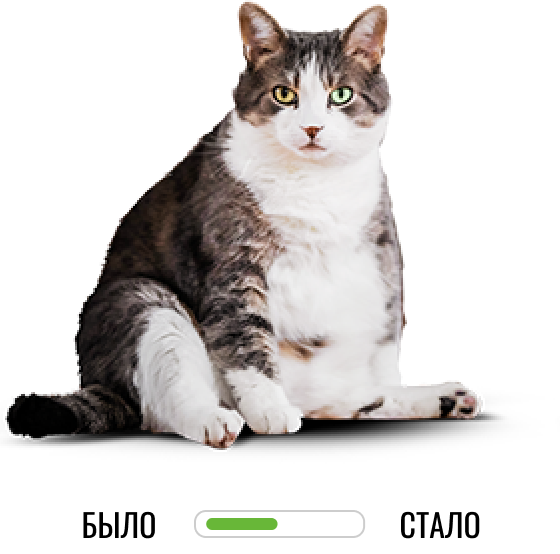
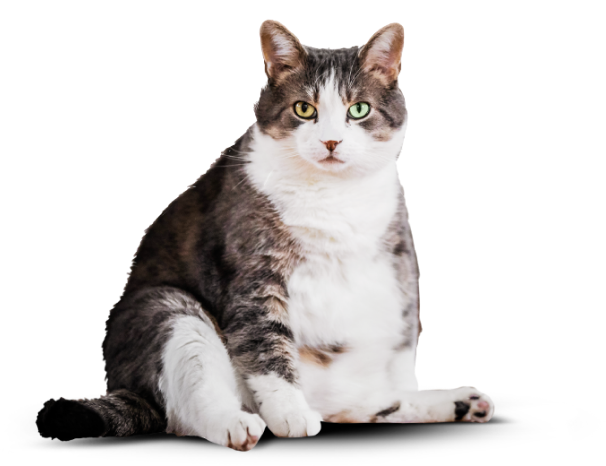
HW 7.20 v2
Оптимизация графики страниц

diff --git a/source/index.html b/source/index.html
@@ -11,10 +11,6 @@
 
 <body class="page__body">
 
-
-
-
-  <div class="back-cat-desk"></div>
   <div class="transparent-cat-desk"></div>
   <header class="main-header container">
 
@@ -185,8 +181,8 @@
               </svg>
 
               <svg class="methods__item-icon-watch-tab" aria-hidden="true" focusable="false" width="80" height="80"
-              viewBox="0 0 80 80" fill="none" xmlns="http://www.w3.org/2000/svg">
-              <use href="img/sprite.svg#watch-icon-tab"></use>
+                viewBox="0 0 80 80" fill="none" xmlns="http://www.w3.org/2000/svg">
+                <use href="img/sprite.svg#watch-icon-tab"></use>
               </svg>
             </div>
             <p class="methods__text">Уже через месяц наслаждайтесь изменениями к лучшему вашего питомца!</p>
@@ -217,29 +213,30 @@
         <div class="example-range-desk">
           <div class="example__images">
 
-
             <div class="example__block-img-fat-mob">
-              <div class="example__img-fat-bg1-mob"></div>
               <picture>
-                <source media="(min-width: 768px" srcset="images/cat-fat.png, images/cat-fat2x.png">
-                <img class="example__img" src="images/cat-before-mobile.png" alt="Кот до похудения" width="280"
+                <source media="(min-width: 768px" srcset="images/cat-before-mobile.png 1x, images/cat-before-mobile2x.png 2x">
+                <img class="example__img" src="images/cat-before-mobile.png"  srcset="images/cat-before-mobile2x.png 2x" alt="Кот до похудения" width="280"
                   height="232">
               </picture>
-              <div class="example__img-fat-bg2-mob"></div>
             </div>
 
             <picture>
-              <source media="(min-width: 768px)" srcset="images/cat-skinny.png, images/cat-skinny2x.png">
-              <img class="example__img-after" src="images/cat-after-mobile.png" alt="Кот после похудения" width="201"
+              <source media="(min-width: 768px)" srcset="images/cat-after-mobile.png 1x, images/cat-after-mobile2x.png 2x">
+              <img class="example__img-after" src="images/cat-after-mobile.png" srcset="images/cat-after-mobile2x.png 2x" alt="Кот после похудения" width="201"
                 height="232">
             </picture>
 
             <div class="example__block-img-fat">
-              <div class="example__img-fat-bg1"></div>
-              <img class="example__img-fat" src="images/cat-fat.png" alt="Кот до похудения" width="677" height="520">
-              <div class="example__img-fat-bg2"></div>
+              <picture>
+                <source media="(min-width: 768px" srcset="images/cat-fat.png 1x, images/cat-fat2x.png 2x">
+                <img class="example__img-fat" src="images/cat-fat.png" srcset="images/cat-fat2x.png 2x" alt="Кот до похудения" width="677" height="520">
+              </picture>
             </div>
-            <img class="example__img-skinny" src="images/cat-skinny.png" alt="Кот после похудения" width="545"
+
+            <picture>
+              <source media="(min-width: 768px)" srcset="images/cat-skinny.png 1x, images/cat-skinny2x.png 2x">
+            <img class="example__img-skinny" src="images/cat-skinny.png" srcset="images/cat-skinny2x.png 2x" alt="Кот после похудения" width="545"
               height="520">
             </picture>
           </div>
@@ -316,7 +313,7 @@
         </ul>
       </div>
       <div class="footer-htmlacademy">
-        <a class="footer-htmlacademy__link" href="https://htmlacademy.ru/">
+        <a class="footer-htmlacademy__link" href="https://htmlacademy.ru/intensive/adaptive">
           <div class="footer-htmlacademy__text">
             <span class="footer-htmlacademy__text-logo">HTMLAcademy</span>
           </div>

diff --git a/source/less/blocks/example.less b/source/less/blocks/example.less
@@ -247,7 +247,7 @@
   }
 }
 
-.example__img-fat-bg1 {
+.example__block-img-fat::before {
   display: none;
 
   @media (min-width: @tablet-width) {
@@ -258,6 +258,7 @@
     background-color: #ffffff;
     overflow: hidden;
     z-index: 1;
+    content: "";
   }
 
   @media (min-width: @desktop-width) {
@@ -265,13 +266,14 @@
   }
 }
 
-.example__img-fat-bg1-mob {
+.example__block-img-fat-mob::before {
   position: absolute;
   width: 600px;
   height: 219px;
   background-color: #eaeaea;
   overflow: hidden;
   z-index: -2;
+  content: "";
 
   @media (min-width: @tablet-width) {
     display: none;
@@ -282,7 +284,7 @@
   }
 }
 
-.example__img-fat-bg2 {
+.example__block-img-fat::after {
   display: none;
 
   @media (min-width: @tablet-width) {
@@ -294,10 +296,11 @@
     background-color: #eaeaea;
     overflow: hidden;
     z-index: -1;
+    content: "";
   }
 }
 
-.example__img-fat-bg2-mob {
+.example__block-img-fat-mob::after {
   position: absolute;
   width: 600px;
   height: 100px;
@@ -305,6 +308,7 @@
   background-color: #eaeaea;
   overflow: hidden;
   z-index: -1;
+  content: "";
 
   @media (min-width: @tablet-width) {
     display: none;

diff --git a/source/less/blocks/navigation.less b/source/less/blocks/navigation.less
@@ -54,7 +54,7 @@
   @media (min-width: @desktop-width) {
     margin: 0 auto;
     position: absolute;
-    background-image: url("../images/background-cat-desk.webp");
+    background-image: url("../images/background-cat-desk.webp"), url("../images/background-cat-desk.jpg");
     background-repeat: no-repeat;
     background-color: #4d4c51;
     background-position: center right;
@@ -78,7 +78,7 @@
 
 
     @media (min-resolution: 2dppx) {
-      background-image: url("../images/background-cat-desk2x.webp");
+      background-image: url("../images/background-cat-desk2x.webp"), url("../images/background-cat-desk2x.jpg");
       background-size: 720px auto;
     }
   }

diff --git a/source/catalog.html b/source/catalog.html
@@ -456,7 +456,7 @@
         </ul>
       </div>
       <div class="footer-htmlacademy">
-        <a class="footer-htmlacademy__link" href="https://htmlacademy.ru/">
+        <a class="footer-htmlacademy__link" href="https://htmlacademy.ru/intensive/adaptive">
           <div class="footer-htmlacademy__text">
             <span class="footer-htmlacademy__text-logo">HTMLAcademy</span>
           </div>

diff --git a/source/form.html b/source/form.html
@@ -267,7 +267,7 @@
         </ul>
       </div>
       <div class="footer-htmlacademy">
-        <a class="footer-htmlacademy__link" href="https://htmlacademy.ru/">
+        <a class="footer-htmlacademy__link" href="https://htmlacademy.ru/intensive/adaptive">
           <div class="footer-htmlacademy__text">
             <span class="footer-htmlacademy__text-logo">HTMLAcademy</span>
           </div>
